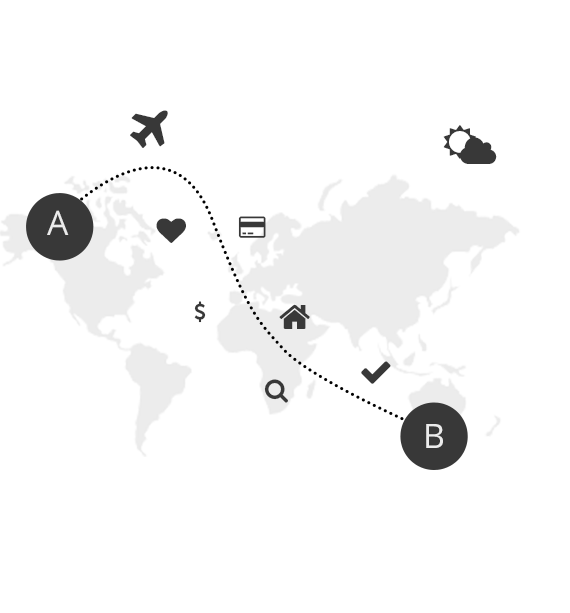
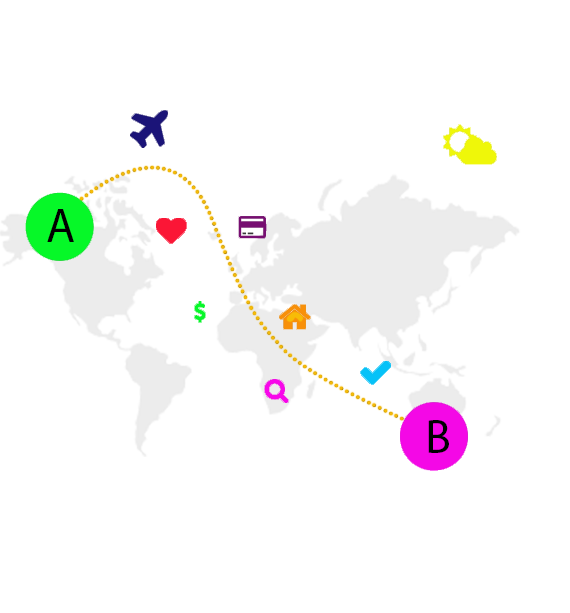
agrego colores

diff --git a/src/components/CardInfo.js b/src/components/CardInfo.js
@@ -38,7 +38,7 @@ const CardInfo = (props) => {
                       aria-controls="panel1a-content"
                       id="panel1a-header" className="my-3"
                     >
-                      <Typography>See More</Typography>
+                      <Typography style={{textAign:"center", marginLeft:"300px"}}>See More</Typography>
                     </AccordionSummary>
                     <AccordionDetails>
                     <div className="my-2">
@@ -74,18 +74,15 @@ const Section = styled.section`
 
   .acordeon{
     margin:10px;  
-   
-  }
-
-  h5 {
     
-
-   
+  }
   
+  
+  
+  .MuiTypography-root p {
     
-  }
-
-  p{
+    text-align:center;
+    margin-left:100px;
    
   }
  
@@ -103,9 +100,12 @@ const Section = styled.section`
 
   
   @media screen and (min-width: 280px) and (max-width: 720px) {
-    .cardinfo {
-    
+    .cardinfo {    
       margin: 10px 0 10px 0;
+    }
+
+    Typography {
+      marginLeft:100px;
     }
 
     .card {

diff --git a/src/components/Hero.js b/src/components/Hero.js
@@ -26,8 +26,8 @@ export default function Hero() {
             <label htmlFor="">Check-out</label>
             <input type="date" />
           </div>
-          <Link className="nav-link" aria-current="page" to="/cities">
-         <button className="custom-btn btn-3"><span className="titulo-">Explore Now</span></button>
+          <Link className="" aria-current="page" to="/cities">
+            <button className="btn-3"><span>Explore Now</span></button>
           </Link>
         
         </div>
@@ -234,10 +234,7 @@ const Section = styled.section`
             padding-left: 1rem;
           }
         }
-        button {
-          padding: 1rem;
-          font-size: 1rem;
-        }
+      
         /* display: none; */
       }
     }

diff --git a/src/App.js b/src/App.js
@@ -13,8 +13,10 @@ import "./App.css"
 
 import axios from "axios";
 
+
+
 import Footer from "./components/Footer";
-import Home from "./components/Home";
+import Home from "./components/Home"; 
 import Cities from "./components/Cities";
 import Navbar from "./components/NavBar";
  import SignIn from "./components/SignIn";
@@ -66,12 +68,14 @@ function App() {
       }
   },[])
 
+
+  
  
 
 
   return (
     <BrowserRouter>
-      <div className="">
+      <div className="">      
         <Navbar /> {/* Esto es para que quede fijo en todas las rutas */}
         <Top />
         <Routes>

diff --git a/src/components/CardCities.js b/src/components/CardCities.js
@@ -59,7 +59,7 @@ export default function CardCities() {
                 <span>{destination.region}</span>
                 <span>{destination.language}</span>
               </div>
-              <Link type="button"  className="custom-btn btn-12" to={"/city/" + destination._id}><span>Click!</span><span>Read More</span></Link>
+              <Link type="button"  className="custom-btn btn-12 mx-3 my-3 text-white" to={"/city/" + destination._id}><span>Click!</span><span>Read More</span></Link>
             </div>
           );
         })}

diff --git a/src/components/Service.js b/src/components/Service.js
@@ -54,6 +54,7 @@ export default function Services() {
 }
 
 const Section = styled.section`
+ 
   padding-top: 5rem;
   padding_bottom:2rem;
   display: grid;
